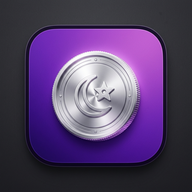
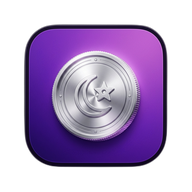
圖修改

diff --git a/style.css b/style.css
@@ -9,15 +9,15 @@
     --text-muted: #94a3b8;
     
     /* Coin Colors */
-    --silver-base: #e2e8f0;
-    --silver-dark: #94a3b8;
-    --silver-highlight: #ffffff;
+    --silver-base: #f59e0b;
+    --silver-dark: #b45309;
+    --silver-highlight: #fdf6e3;
     
     /* Dice Colors */
-    --dice-bg: #004d00;
-    --dice-border: #003300;
-    --dice-dot: #ffd700;
-    --dice-dot-glow: rgba(255, 215, 0, 0.6);
+    --dice-bg: #f8fafc;
+    --dice-border: #cbd5e1;
+    --dice-dot: #1e293b;
+    --dice-dot-glow: rgba(0, 0, 0, 0.15);
 }
 
 * {
@@ -73,6 +73,7 @@ header h1 {
     font-weight: 700;
     margin-bottom: 1.5rem;
     background: linear-gradient(to right, #a78bfa, #c4b5fd);
+    background-clip: text;
     -webkit-background-clip: text;
     -webkit-text-fill-color: transparent;
 }
@@ -145,7 +146,7 @@ header h1 {
     border-radius: 50%;
     backface-visibility: hidden;
     background: linear-gradient(135deg, var(--silver-highlight) 0%, var(--silver-base) 40%, var(--silver-dark) 100%);
-    border: 3px solid #cbd5e1;
+    border: 3px solid #fcd34d;
     box-shadow: inset 0 0 10px rgba(0,0,0,0.3), 0 10px 20px rgba(0,0,0,0.5);
     display: flex;
     justify-content: center;
@@ -170,8 +171,8 @@ header h1 {
     flex-direction: column;
     justify-content: center;
     align-items: center;
-    color: #334155;
-    text-shadow: 1px 1px 0px rgba(255,255,255,0.7);
+    color: #78350f;
+    text-shadow: 1px 1px 0px rgba(255,255,255,0.5);
 }
 
 .currency-value {
@@ -196,7 +197,7 @@ header h1 {
 .portrait-placeholder {
     width: 45px;
     height: 55px;
-    background: #334155;
+    background: #78350f;
     border-radius: 20px 20px 10px 10px;
     position: relative;
     margin-top: -10px;
@@ -205,7 +206,7 @@ header h1 {
     content: '';
     position: absolute;
     top: -20px; left: 5px; width: 35px; height: 35px;
-    background: #334155;
+    background: #78350f;
     border-radius: 50%;
 }
 
@@ -269,9 +270,9 @@ header h1 {
 .dice {
     width: 80px;
     height: 80px;
-    background: linear-gradient(135deg, #008000 0%, var(--dice-bg) 100%);
+    background: linear-gradient(135deg, #ffffff 0%, var(--dice-bg) 100%);
     border-radius: 16px;
-    box-shadow: inset 0 0 10px rgba(0,0,0,0.5), 0 8px 16px rgba(0,0,0,0.6);
+    box-shadow: inset 0 0 10px rgba(0,0,0,0.2), 0 8px 16px rgba(0,0,0,0.6);
     border: 2px solid var(--dice-border);
     position: relative;
     transform: rotateX(0) rotateY(0);
@@ -283,7 +284,7 @@ header h1 {
 }
 
 .dice-dot {
-    background: radial-gradient(circle at 30% 30%, #fff 0%, var(--dice-dot) 40%, #b38600 100%);
+    background: radial-gradient(circle at 30% 30%, #94a3b8 0%, var(--dice-dot) 50%, #020617 100%);
     border-radius: 50%;
     width: 14px;
     height: 14px;
@@ -302,6 +303,13 @@ header h1 {
 5: top-left, top-right, center, bottom-left, bottom-right
 6: top-left, top-right, center-left, center-right, bottom-left, bottom-right
 */
+
+/* Red dots for 1 and 4 */
+.show-1 .dice-dot,
+.show-4 .dice-dot {
+    background: radial-gradient(circle at 30% 30%, #fca5a5 0%, #dc2626 50%, #7f1d1d 100%);
+    box-shadow: 0 0 5px rgba(220, 38, 38, 0.4);
+}
 
 .show-1 .dot-1 { display: block; grid-column: 2; grid-row: 2; }
 

diff --git a/generate_pure_purple_icon.py b/generate_pure_purple_icon.py
@@ -1,0 +1,49 @@
+import os
+from PIL import Image, ImageDraw, ImageFont
+
+def draw_icon(size, filename):
+    # 背景為全紫色
+    img = Image.new("RGB", (size, size), "#8b5cf6")
+    draw = ImageDraw.Draw(img)
+    
+    # 畫出淡紫色的圓圈邊框
+    r = size * 0.45
+    cx = size // 2
+    cy = size // 2
+    line_width = max(1, int(size * 0.05))
+    draw.ellipse(
+        (cx - r, cy - r, cx + r, cy + r), 
+        fill="#8b5cf6", 
+        outline="#c4b5fd", 
+        width=line_width
+    )
+    
+    # 嘗試載入微軟正黑體，否則用預設
+    font_size = int(size * 0.5)
+    try:
+        font = ImageFont.truetype("msjh.ttc", font_size)
+    except IOError:
+        try:
+            # 備用字體 (Windows)
+            font = ImageFont.truetype("msgothic.ttc", font_size)
+        except IOError:
+            font = ImageFont.load_default()
+            
+    text = "決"
+    
+    # 置中計算
+    left, top, right, bottom = draw.textbbox((0, 0), text, font=font)
+    w = right - left
+    h = bottom - top
+    
+    # 畫上白色的字
+    # Y 軸稍微扣除一點點以視覺置中
+    draw.text((cx - w/2, cy - h/2 - size * 0.08), text, fill="#ffffff", font=font)
+    
+    img.save(filename)
+    print(f"Generated {filename}")
+
+if __name__ == '__main__':
+    target_dir = r"c:\Users\ruiting\Desktop\tool"
+    draw_icon(512, os.path.join(target_dir, "icon-512.png"))
+    draw_icon(192, os.path.join(target_dir, "icon-192.png"))

diff --git a/process_transparent_icon.py b/process_transparent_icon.py
@@ -1,0 +1,37 @@
+import os
+from PIL import Image
+from rembg import remove
+
+def process():
+    try:
+        # File paths
+        icon_path = r"C:\Users\ruiting\.gemini\antigravity\brain\258b2f85-7d95-498a-a1ff-d52b62fbf36a\gold_coin_white_dice_1775015023258.png"
+        target_dir = r"c:\Users\ruiting\Desktop\tool"
+        
+        # Open source image and remove background
+        with open(icon_path, 'rb') as i:
+            input_img = i.read()
+            
+        print("Removing background... this might take several seconds the first time downloading the model...")
+        output_img = remove(input_img)
+        
+        # Use PIL to resize the transparent image
+        # Using BytesIO to parse the raw PNG bytes returned by rembg
+        from io import BytesIO
+        img = Image.open(BytesIO(output_img))
+        img = img.convert("RGBA")
+        
+        # 192x192
+        img_192 = img.resize((192, 192), Image.Resampling.LANCZOS)
+        img_192.save(os.path.join(target_dir, "icon-192.png"))
+        
+        # 512x512
+        img_512 = img.resize((512, 512), Image.Resampling.LANCZOS)
+        img_512.save(os.path.join(target_dir, "icon-512.png"))
+            
+        print("Images formatted successfully with a transparent background!")
+    except Exception as e:
+        print(f"Error: {e}")
+
+if __name__ == '__main__':
+    process()

diff --git a/process_original_icon_transparent.py b/process_original_icon_transparent.py
@@ -1,0 +1,36 @@
+import os
+from PIL import Image
+from rembg import remove
+
+def process():
+    try:
+        # File paths - pointing to the ORIGINAL 3D silver coin icon generated earlier
+        icon_path = r"C:\Users\ruiting\.gemini\antigravity\brain\258b2f85-7d95-498a-a1ff-d52b62fbf36a\app_icon_1775011293853.png"
+        target_dir = r"c:\Users\ruiting\Desktop\tool"
+        
+        # Open source image and remove background
+        with open(icon_path, 'rb') as i:
+            input_img = i.read()
+            
+        print("Removing background from the original 3D coin icon...")
+        output_img = remove(input_img)
+        
+        # Use PIL to resize the transparent image
+        from io import BytesIO
+        img = Image.open(BytesIO(output_img))
+        img = img.convert("RGBA")
+        
+        # 192x192
+        img_192 = img.resize((192, 192), Image.Resampling.LANCZOS)
+        img_192.save(os.path.join(target_dir, "icon-192.png"))
+        
+        # 512x512
+        img_512 = img.resize((512, 512), Image.Resampling.LANCZOS)
+        img_512.save(os.path.join(target_dir, "icon-512.png"))
+            
+        print("Successfully removed black background and made the icon transparent!")
+    except Exception as e:
+        print(f"Error: {e}")
+
+if __name__ == '__main__':
+    process()

diff --git a/process_purple_icon.py b/process_purple_icon.py
@@ -1,0 +1,26 @@
+import os
+from PIL import Image
+
+def process():
+    try:
+        # File paths
+        icon_path = r"C:\Users\ruiting\.gemini\antigravity\brain\258b2f85-7d95-498a-a1ff-d52b62fbf36a\app_icon_purple_1775014817019.png"
+        target_dir = r"c:\Users\ruiting\Desktop\tool"
+        
+        # Process Icons
+        with Image.open(icon_path) as img:
+            rgb_img = img.convert("RGB")
+            # 192x192
+            img_192 = rgb_img.resize((192, 192), Image.Resampling.LANCZOS)
+            img_192.save(os.path.join(target_dir, "icon-192.png"))
+            
+            # 512x512
+            img_512 = rgb_img.resize((512, 512), Image.Resampling.LANCZOS)
+            img_512.save(os.path.join(target_dir, "icon-512.png"))
+            
+        print("Images processed successfully.")
+    except Exception as e:
+        print(f"Error: {e}")
+
+if __name__ == '__main__':
+    process()
